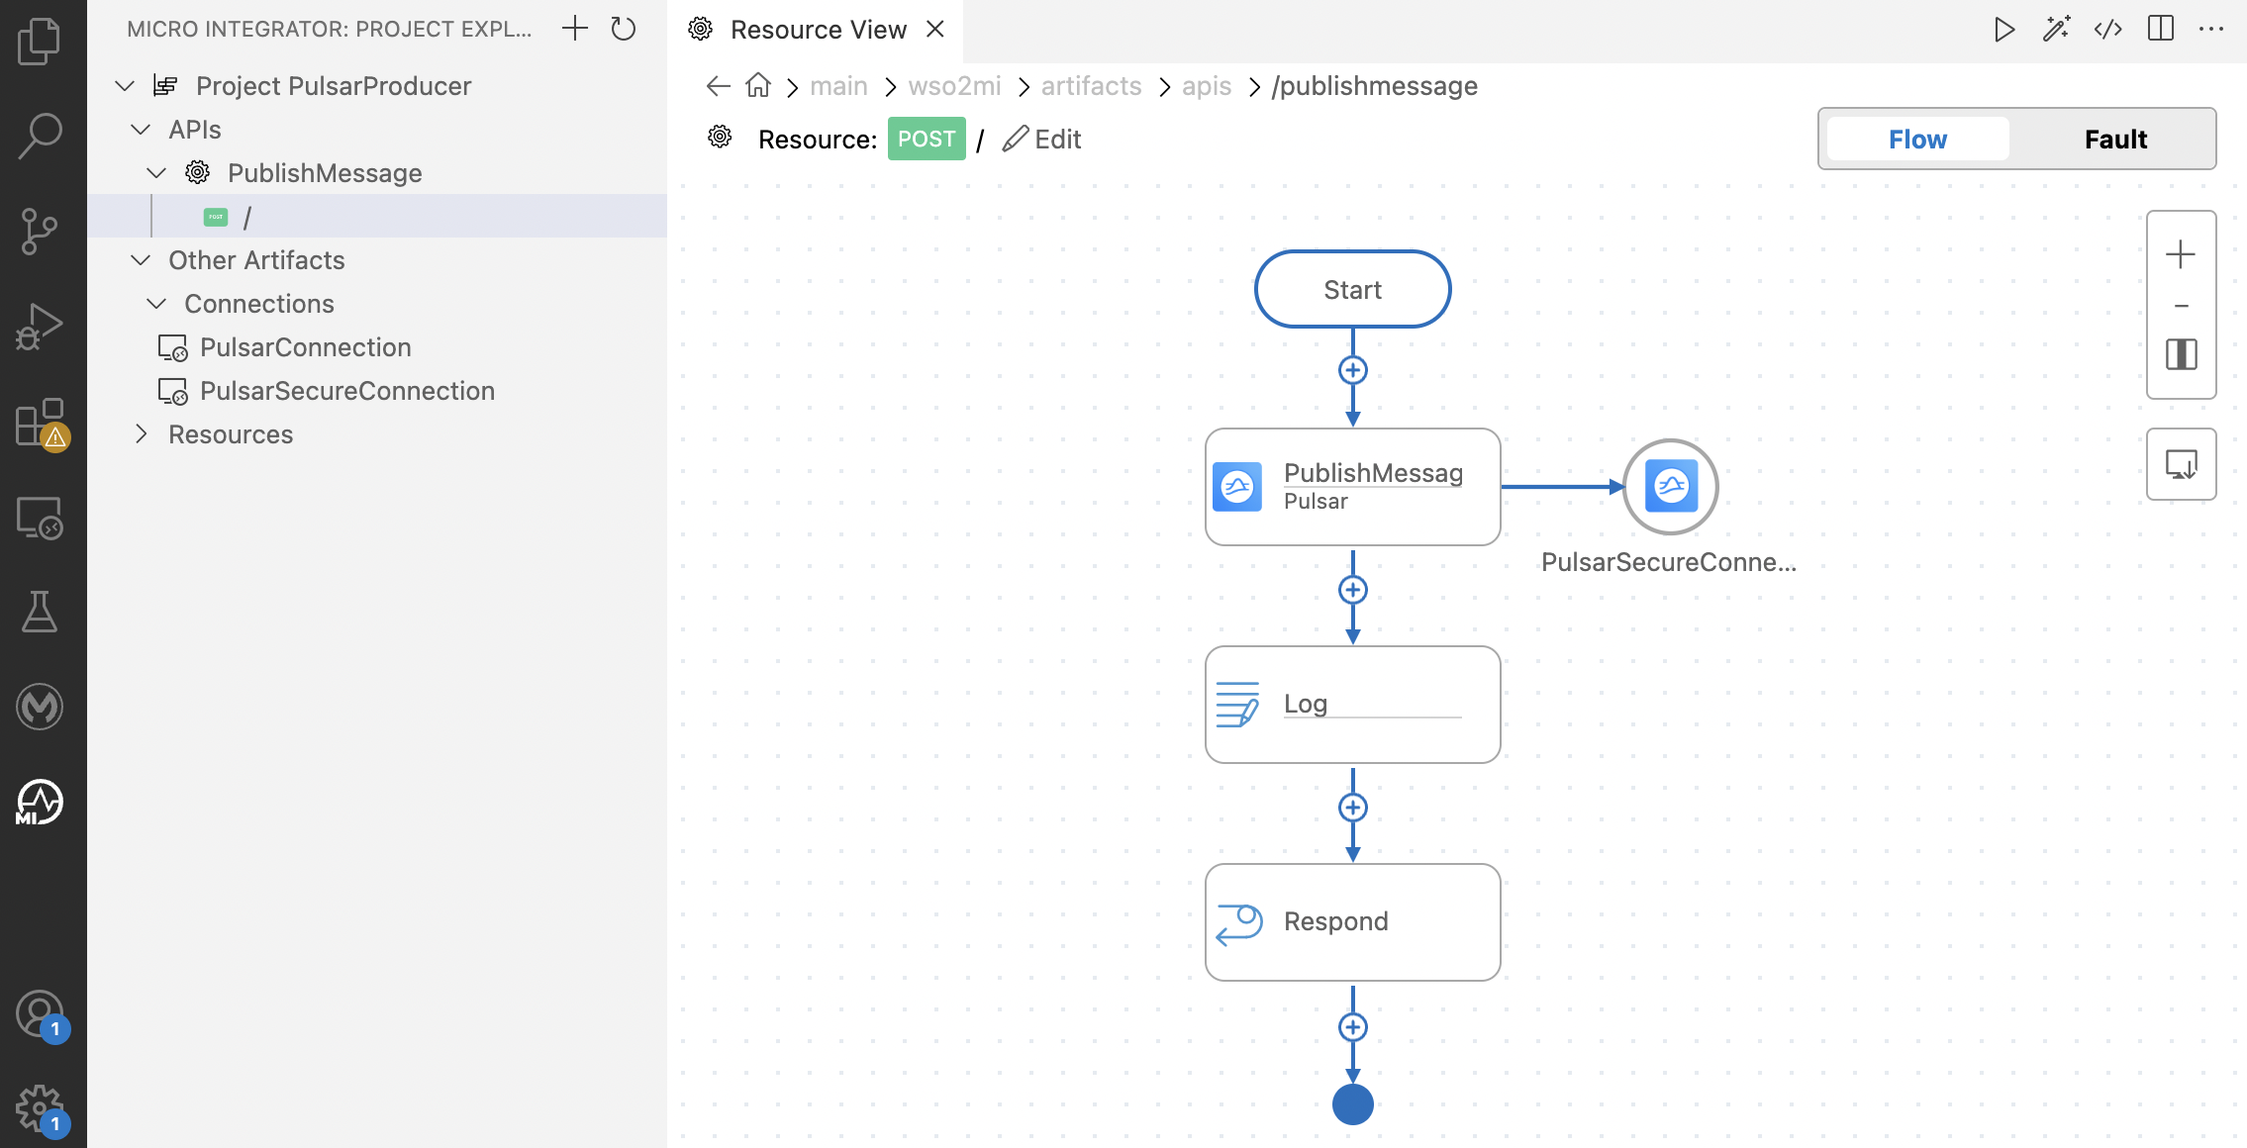
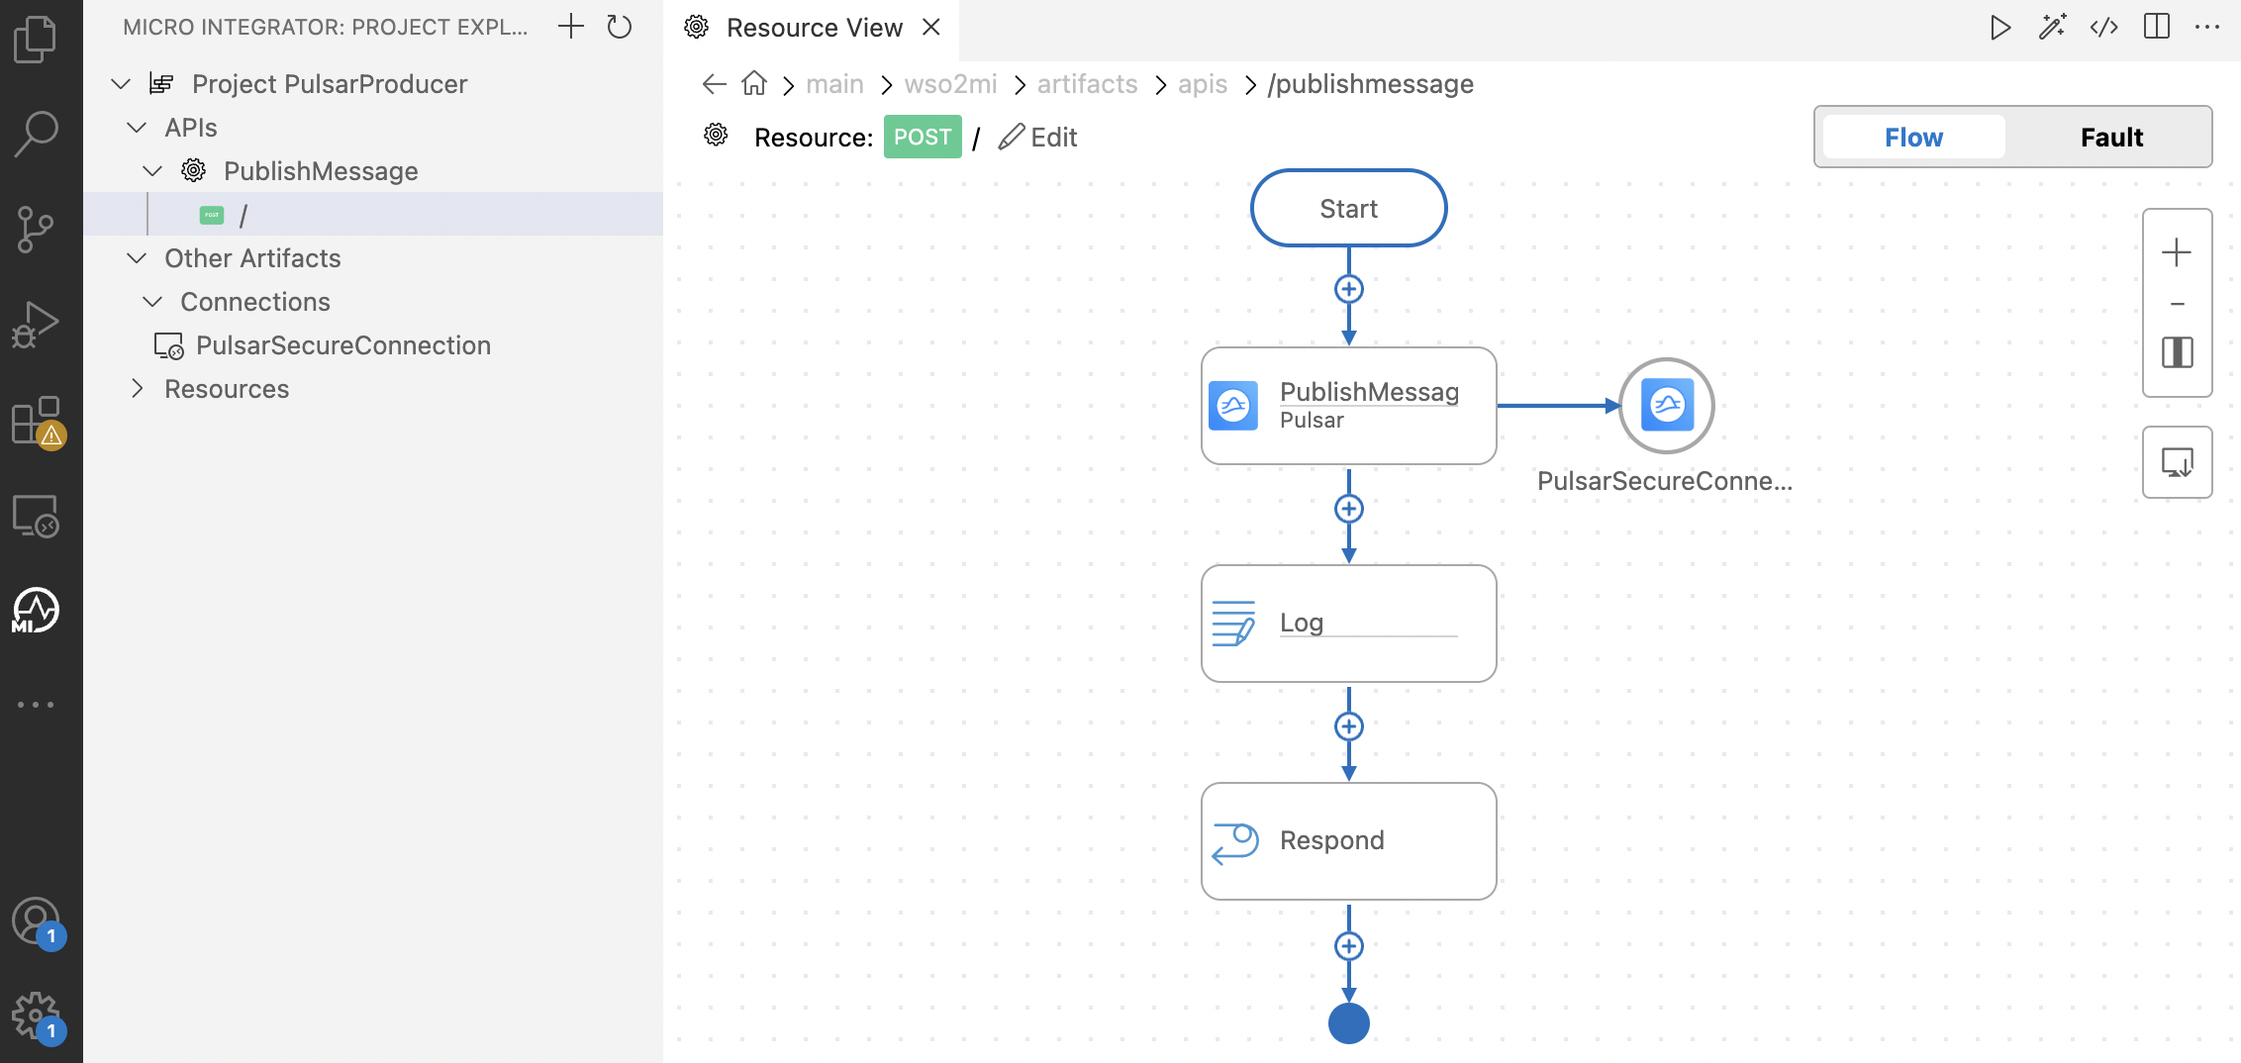
Fix review comments

diff --git a/en/docs/reference/connectors/pulsar-connector/pulsar-connector-example.md b/en/docs/reference/connectors/pulsar-connector/pulsar-connector-example.md
@@ -4,60 +4,21 @@ The **Apache Pulsar Connector** allows publishing messages to Apache Pulsar topi
 
 ## What you'll build
 
-Given below is a sample API that illustrates how you can connect to a Apache Pulsar broker with the `init` operation and then use the `publishMessage` operation to publish messages to the topics. It exposes Apache Pulsar functionalities as a RESTful service. Users can invoke the API using HTTP/HTTPs with the required information.
+Given below is a sample API that illustrates how you can connect to a Apache Pulsar broker and use the `publishMessage` operation to publish messages to the topics. It exposes Apache Pulsar functionalities as a RESTful service. Users can invoke the API using HTTP/HTTPs with the required information.
 
 API has the context `/publishMessage`. It will publish messages via the topic to the Apache Pulsar server.
 
 The following diagram illustrates all the required functionality of the Apache Pulsar service that you are going to build.
 
-<a href="{{base_path}}/assets/img/integrate/connectors/kafkaconnectorpublishmessage.png"><img src="{{base_path}}/assets/img/integrate/connectors/kafkaconnectorpublishmessage.png" title="KafkaConnector" width="800" alt="KafkaConnector"/></a>
+<a href="{{base_path}}/assets/img/integrate/connectors/pulsar/PulsarConnectorDiagram.png"><img src="{{base_path}}/assets/img/integrate/connectors/pulsar/PulsarConnectorDiagram.png" title="PulsarConnectorUseCase" width="800" alt="PulsarConnectorUseCase"/></a>
 
 If you do not want to configure this yourself, you can simply [get the project](#get-the-project) and run it.
 
 ## Before you begin
 
-To connect with Apache Pulsar using the WSO2 Micro Integrator Apache Pulsar Connector, you need to first set up a running Pulsar instance locally or on a server. In this example, we will use an Apache Pulsar standalone server. Follow the steps below to prepare the Pulsar environment:
+### Setup Apache Pulsar
 
-### 1. Download and Extract Pulsar
-
-- Download the latest Apache Pulsar release from the [official website](https://pulsar.apache.org/download/).
-- Extract the archive to a preferred location on your machine.
-
----
-
-### 2. Configure TLS Encryption
-
-- For this example, **TLS encryption using PEM certificates** is used to ensure secure communication with the Pulsar broker. To configure TLS with PEM, refer to the official [Apache Pulsar documentation](https://pulsar.apache.org/docs/next/security-tls-transport/#configure-mtls-encryption-with-pem) for a step-by-step guide and ensure that you have the following components prepared:
-
-    - A **Certificate Authority (CA)** certificate - `tlsTrustCertsFilePath`
-    - A **server certificate** - `tlsCertificateFilePath`
-    - The **server's private key** - `tlsKeyFilePath`
-
----
-
-### 3. Configure Authentication using tokens based on JSON Web Tokens (JWT)
-
-- For this example, **JWT-based authentication** is used to restrict access to authorized clients only. To configure JWT authentication, refer to the official [Apache Pulsar documentation](https://pulsar.apache.org/docs/next/security-jwt/) for a step-by-step guide. Ensure that you have the following components prepared:
-
-    - A **JWT token** that includes the necessary claims for authentication. The compact representation of a signed JWT is a string that looks like:
-        ```bash
-        eyJhbGciOiJIUzI1NiJ9.eyJzdWIiOiJKb2UifQ.ipevRNuRP6HflG8cFKnmUPtypruRC4fb1DWtoLL62SY
-        ```
-  
-    Once the JWT token is generated, configure the Pulsar broker to enable JWT-based authentication.
-
-### 4. Start the Pulsar Standalone Server
-
-- Navigate to the extracted Pulsar directory.
-- Start the standalone server using the following command:
-
-      ```bash
-      bin/pulsar standalone
-      ```
-
-!!!Note
-    - For setting up Pulsar in other environments such as Docker or Kubernetes, please refer to the [official Apache Pulsar documentation](https://pulsar.apache.org/docs/next/getting-started-home/).
-    - The recommended version of Java for Apache Pulsar is 21 or above.
+To connect with Apache Pulsar using the WSO2 Micro Integrator Apache Pulsar Connector, you need to first set up a running Pulsar instance locally or on a server. In this example, we will use an Apache Pulsar standalone server. Set up Apache Pulsar by following the instructions in [Set up Apache Pulsar]({{base_path}}/reference/connectors/pulsar-connector/pulsar-connector-setup/).
 
 ### Setup Environment for Apache Pulsar Connector
 
@@ -108,50 +69,49 @@ Follow the steps in the [create integration project]({{base_path}}/develop/creat
 
 To map elements from the request payload to the configuration parameters, you can define a sample request payload. To do this, follow the steps below:
 
-5. Click on the resource and you will be redirected to the **Design View** of the API. Now, click on the `Start` node on the canvas and select the `Add Request` option. This will open a pane to create a new example payload request.
+Click on the resource and you will be redirected to the **Design View** of the API. Now, click on the `Start` node on the canvas and select the `Add Request` option. This will open a pane to create a new example payload request.
 
-       In this operation, we are going to receive the following inputs from the user.
+In this operation, we are going to receive the following inputs from the user.
+
+- **topic** - The name of the Pulsar topic to which the message will be published.
+- **message** - The content of the message to be published.
+- **key** - The key associated with the message, used for partition routing.
+- **properties** - Additional named properties to be included with the message.
     
-        - **topic** - The name of the Pulsar topic to which the message will be published.
-        - **message** - The content of the message to be published.
-        - **key** - The key associated with the message, used for partition routing.
-        - **properties** - Additional named properties to be included with the message.
-    
-       Therefore, provide the following JSON payload to the request.
-        ```json
-        {
-            "topic": "<your-email>@gmail.com",
-            "message": "<your-email>@gmail.com",
-            "key": "Sample email",
-            "properties": {
-                "message-type":"text/plain",
-                "event-date": "2025-05-20"
-              }  
-           
-        }
-        ```
-    <img src="{{base_path}}/assets/img/integrate/connectors/pulsar/AddApiRequestPayload.png" title="Adding the sample API request." width="400" alt="Adding the API request."/>
+   Therefore, provide the following JSON payload to the request.
+    ```json
+    {
+        "topic": "cities",
+        "message": "Hello World!",
+        "key": "my-key",
+        "properties": {
+            "message-type":"text/plain",
+            "event-date": "2025-05-20"
+          }
+    }
+    ```
+  <img src="{{base_path}}/assets/img/integrate/connectors/pulsar/AddApiRequestPayload.png" title="Adding the sample API request." width="400" alt="Adding the API request."/>
 
 #### Add Pulsar Connector to the Project
 
-6. Now we will add the `publishMessage` operation of the Pulsar Connector to the integration flow. To do this, we need to add the Apache Pulsar Connector to the integration project first. 
+1. Now we will add the `publishMessage` operation of the Pulsar Connector to the integration flow. To do this, we need to add the Apache Pulsar Connector to the integration project first. 
     For that, open the **Resource View**, click on the **+** icon on the canvas to open the **Mediator Palette** and search for `Pulsar` in the **Mediators** section. Then, select the **Pulsar** connector and click on the **Download** button.
 
     <img src="{{base_path}}/assets/img/integrate/connectors/pulsar/CreateConnection1.png" title="Adding Pulsar Connector" width="800" alt="Adding Pulsar Connector"/>
 
-7. Click on the `publishMessage` operation to add that operation to the integration flow.
+2. Click on the `publishMessage` operation to add that operation to the integration flow.
 
 #### Create Connection
 
-8. Create a new connection by clicking on the '+ Add new connection' button as shown below. It will open a new pop-up window.
+1. Create a new connection by clicking on the '+ Add new connection' button as shown below. It will open a new pop-up window.
    
     <img src="{{base_path}}/assets/img/integrate/connectors/pulsar/CreateConnection2.png" title="Creating a new Connection" width="600" alt="Creating a new Connection"/>
 
-9. Click on the **PulsarSecure** tile under the Pulsar Connector.
+2. Click on the **PulsarSecure** tile under the Pulsar Connector.
    
     <img src="{{base_path}}/assets/img/integrate/connectors/pulsar/CreateConnection3.png" title="Creating a new Connection" width="600" alt="Creating a new Connection"/>
 
-10. Enter the connection name as `PulsarSecureConnection` and provide the following details in the **Pulsar Connection** configuration pane.
+3. Enter the connection name as `PulsarSecureConnection` and provide the following details in the **Pulsar Connection** configuration pane.
 
       - **Broker URL**: pulsar://localhost:6651/
       - **Authentication Type**: JWT
@@ -162,12 +122,12 @@ To map elements from the request payload to the configuration parameters, you ca
 
 ### Implement the API
 
-11. Once the Pulsar connection is successfully created, it will be listed in the drop-down on the **Connection** section of the **Add PublishMessage** operation window.
+1. Once the Pulsar connection is successfully created, it will be listed in the drop-down on the **Connection** section of the **Add PublishMessage** operation window.
 
-12. Now we need to configure the necessary parameters of the `publishMessage` operation. For some of the fields, we will use Synapse expressions to map values from the sample request defined in [Create Sample Request Payload](#create-sample-request-payload).
+2. Now we need to configure the necessary parameters of the `publishMessage` operation. For some of the fields, we will use Synapse expressions to map values from the sample request defined in [Create Sample Request Payload](#create-sample-request-payload).
     - Input Section
         - **Message**: `${payload.message}`
-        - **Key**: ${payload.key}
+        - **Key**: `${payload.key}`
         - **Message Properties**: 
           ```json
           [
@@ -176,15 +136,14 @@ To map elements from the request payload to the configuration parameters, you ca
           ]
           ```
     - Producer Settings
-        - **Topic Name**: ${payload.topic}
+        - **Topic Name**: `${payload.topic}`
         - **Compression Type**: NONE
         - **Send Mode**: Sync
         - **Batching Enabled**: true
     - Output Section
-        - **Output Variable**: pulsar_publishMessage_28
         - **Overwrite Message Body**: true
       
-- To do this, click on the `Expression` icon in the Message field and select the `Payload` option.
+3. To do this, click on the `Expression` icon in the Message field and select the `Payload` option.
 
     <img src="{{base_path}}/assets/img/integrate/connectors/pulsar/AddExpression.png" title="Adding the send parameters." width="700" alt="Configuring publishMessage operation."/>
 
@@ -202,14 +161,14 @@ To map elements from the request payload to the configuration parameters, you ca
 
     <img src="{{base_path}}/assets/img/integrate/connectors/pulsar/OutputSchema.png" title="publishmessage operation output schema." width="400" alt="publishmessage operation output schema."/>
 
-13. Add a Log mediator to log the response of the `publishMessage` operation. To do this, click on the `+` icon after the `publishMessage` operation and select the `Log` mediator from the **Mediator Palette**.
+4. Add a Log mediator to log the response of the `publishMessage` operation. To do this, click on the `+` icon after the `publishMessage` operation and select the `Log` mediator from the **Mediator Palette**.
 
     <img src="{{base_path}}/assets/img/integrate/connectors/pulsar/AddLogMediator1.png" title="Adding Log Mediator" width="700" alt="Adding Log Mediator"/>
 
     <img src="{{base_path}}/assets/img/integrate/connectors/pulsar/AddLogMediator2.png" title="Adding Log Mediator" width="500" alt="Adding Log Mediator"/>
 
 
-14. Add the [Respond Mediator]({{base_path}}/reference/mediators/respond-mediator/) to respond to the response of the `publishMessage` operation as shown below.
+5. Add the [Respond Mediator]({{base_path}}/reference/mediators/respond-mediator/) to respond to the response of the `publishMessage` operation as shown below.
 
     <img src="{{base_path}}/assets/img/integrate/connectors/pulsar/AddRespondMediator.png" title="Adding the respond mediator." width="900" alt="Adding the respond mediator."/>
 

diff --git a/en/docs/reference/connectors/pulsar-connector/pulsar-connector-setup.md b/en/docs/reference/connectors/pulsar-connector/pulsar-connector-setup.md
@@ -1,37 +1,44 @@
-# 📝 Set Up Apache Pulsar
+# Set up Apache Pulsar
 
-To connect with Apache Pulsar using the WSO2 Micro Integrator Apache Pulsar Connector, you need to first set up a running Pulsar instance locally or on a server. Follow the steps below to prepare the Pulsar environment:
+In this section, we’ll walk through how to set up an Apache Pulsar standalone server for local testing and development. This setup will also demonstrate how to enable **TLS encryption** and **JWT-based authentication**, which are essential for establishing secure and authenticated communication with the Pulsar broker.
 
----
+### Download and Extract Pulsar
 
-### 1. Download and Extract Pulsar
-
-- Download the latest Apache Pulsar release from the [official website](https://pulsar.apache.org/download/).
+- Download the Apache Pulsar v4.0.4 release from the [official website](https://pulsar.apache.org/download/). (This example was tested with Apache Pulsar version 4.0.4.)
 - Extract the archive to a preferred location on your machine.
 
 ---
 
-### 2. Start the Pulsar Standalone Server
+### Configure TLS Encryption
+
+For this example, **TLS encryption using PEM certificates** is used to ensure secure communication with the Pulsar broker. To configure TLS with PEM, refer to the official [Apache Pulsar documentation](https://pulsar.apache.org/docs/next/security-tls-transport/#configure-mtls-encryption-with-pem) for a step-by-step guide and ensure that you have the following components prepared:
+
+- A **Certificate Authority (CA)** certificate (`ca.cert.pem`) - `tlsTrustCertsFilePath`
+- A **server certificate** (`server.cert.pem`) - `tlsCertificateFilePath`
+- The **server's private key** (`server.key-pk8.pem`) - `tlsKeyFilePath`
+
+---
+
+### Configure Authentication using tokens based on JSON Web Tokens (JWT)
+
+For this example, **JWT-based authentication** is used to restrict access to authorized clients only. To configure JWT authentication, refer to the official [Apache Pulsar documentation](https://pulsar.apache.org/docs/next/security-jwt/) for a step-by-step guide. Ensure that you have the following components prepared:
+
+- A **JWT token** that includes the necessary claims for authentication. The compact representation of a signed JWT is a string that looks like:
+    ```bash
+    eyJhbGciOiJIUzI1NiJ9.eyJzdWIiOiJKb2UifQ.ipevRNuRP6HflG8cFKnmUPtypruRC4fb1DWtoLL62SY
+    ```
+
+  Once the JWT token is generated, configure the Pulsar broker to enable JWT-based authentication.
+
+### Start the Pulsar Standalone Server
 
 - Navigate to the extracted Pulsar directory.
 - Start the standalone server using the following command:
 
-  ```bash
-  bin/pulsar standalone
+      ```bash
+      bin/pulsar standalone
+      ```
 
 !!!Note
-- For setting up Pulsar in other environments such as Docker or Kubernetes, please refer to the [official Apache Pulsar documentation](https://pulsar.apache.org/docs/next/getting-started-home/).
-- The recommended version of Java for Apache Pulsar is 21 or above.
-
-## Setup Environment for Apache Pulsar Connector
-
-1. To configure the Apache Pulsar connector with Apache Pulsar version 4.0.4, copy the following client libraries to the `<MI_HOME>/lib` directory.
-
-  * [pulsar-client-4.0.4.wso2v1.jar](https://mvnrepository.com/artifact/org.apache.kafka/kafka_2.12/2.8.2)
-  * [pulsar-client-original-4.0.4.jar](https://repo1.maven.org/maven2/org/apache/pulsar/pulsar-client-original/4.0.4/pulsar-client-original-4.0.4.jar)
-  * [pulsar-common-4.0.4.jar](https://repo1.maven.org/maven2/org/apache/pulsar/pulsar-common/4.0.4/pulsar-common-4.0.4.jar)
-  * [bookkeeper-common-allocator-4.16.6.jar](https://repo1.maven.org/maven2/org/apache/bookkeeper/bookkeeper-common-allocator/4.16.6/bookkeeper-common-allocator-4.16.6.jar)
-  * [netty-codec-dns-4.1.119.Final.jar](https://repo1.maven.org/maven2/io/netty/netty-codec-dns/4.1.119.Final/netty-codec-dns-4.1.119.Final.jar)
-  * [netty-resolver-dns-4.1.119.Final.jar](https://repo1.maven.org/maven2/io/netty/netty-resolver-dns/4.1.119.Final/netty-resolver-dns-4.1.119.Final.jar)
-  * [netty-transport-classes-epoll-4.1.119.Final.jar](https://repo1.maven.org/maven2/io/netty/netty-transport-classes-epoll/4.1.119.Final/netty-transport-classes-epoll-4.1.119.Final.jar)
-  * [netty-incubator-transport-classes-io_uring-0.0.26.Final.jar](https://repo1.maven.org/maven2/io/netty/incubator/netty-incubator-transport-classes-io_uring/0.0.26.Final/netty-incubator-transport-classes-io_uring-0.0.26.Final.jar)
+    - For setting up Pulsar in other environments such as Docker or Kubernetes, please refer to the [official Apache Pulsar documentation](https://pulsar.apache.org/docs/next/getting-started-home/).
+    - The recommended version of Java for Apache Pulsar is 21 or above.

diff --git a/en/docs/reference/connectors/pulsar-connector/pulsar-connector-reference.md b/en/docs/reference/connectors/pulsar-connector/pulsar-connector-reference.md
@@ -5,7 +5,7 @@ Click an operation name to see parameter details and samples on how to use it.
 
 ## Connection Configurations
 
-<img src="{{base_path}}/assets/img/integrate/connectors/pulsar/pulsar-conn.png" title="Apache Pulsar Connector Configuration" width="700" alt="Apache Pulsar Connector Configuration"/>
+<img src="{{base_path}}/assets/img/integrate/connectors/pulsar/PulsarConnections.png" title="Apache Pulsar Connections" width="700" alt="Apache Pulsar Connections"/>
 
 The WSO2 Apache Pulsar Connector allows you to establish both secure and non-secure connections to Apache Pulsar. 
 

diff --git a/en/docs/reference/connectors/pulsar-connector/pulsar-connector-overview.md b/en/docs/reference/connectors/pulsar-connector/pulsar-connector-overview.md
@@ -25,7 +25,7 @@ Go to the <a target="_blank" href="https://store.wso2.com/connector/mi-connector
 
 | Connector Version | Supported Product Versions |
 |-------------------|----------------------------|
-| 1.0.0             | MI 4.4.0                   |
+| 0.9.3             | MI 4.4.0                   |
 
 ## Apache Pulsar Connector documentation
 
